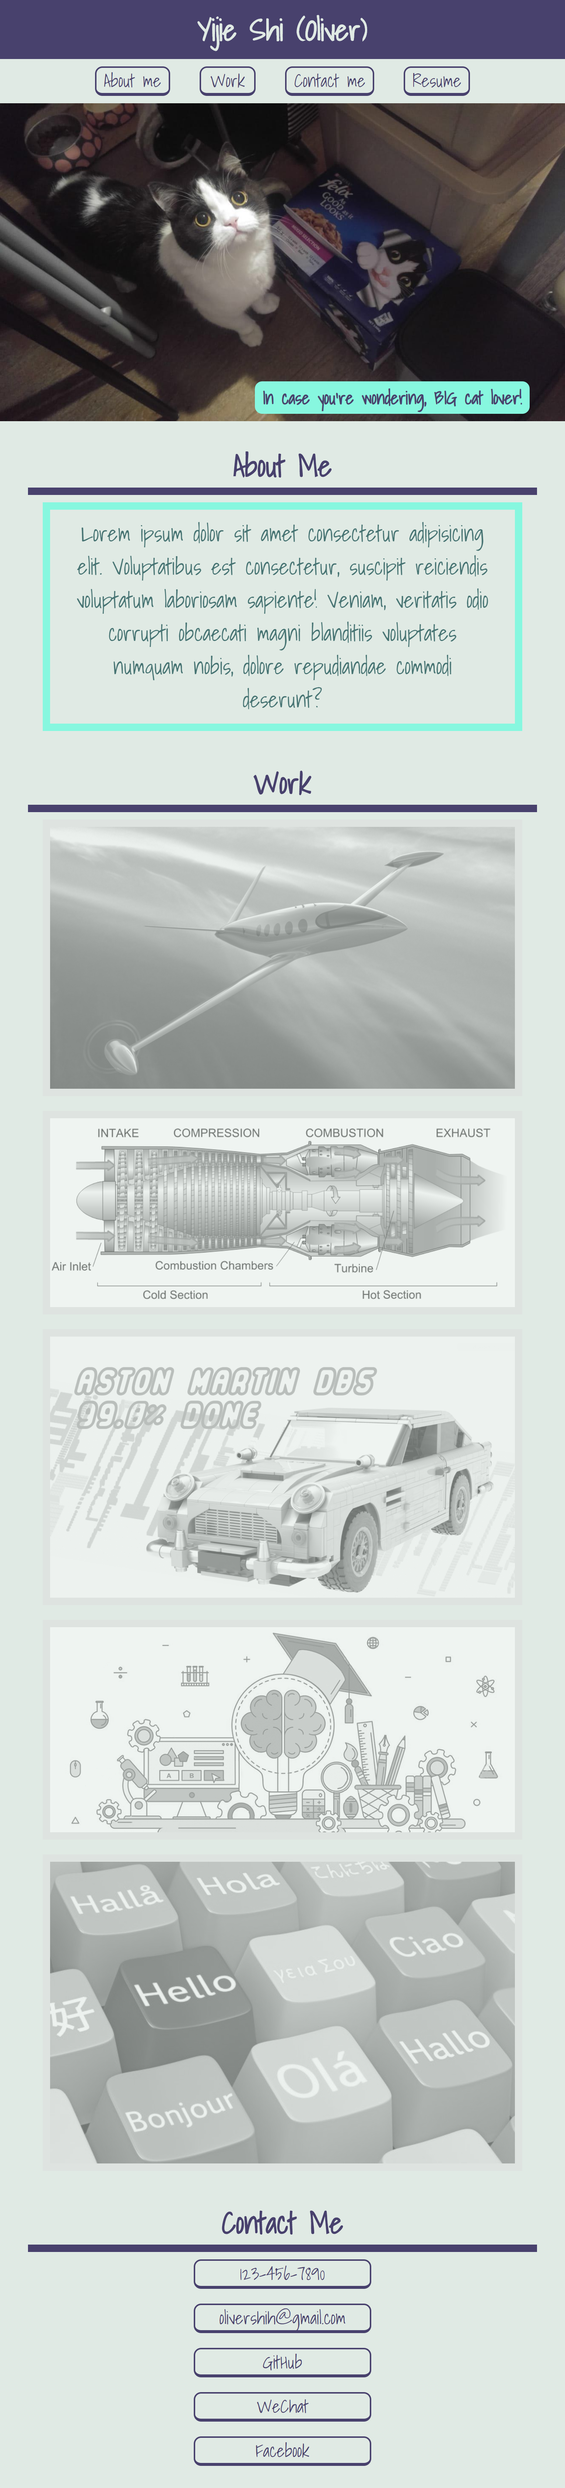
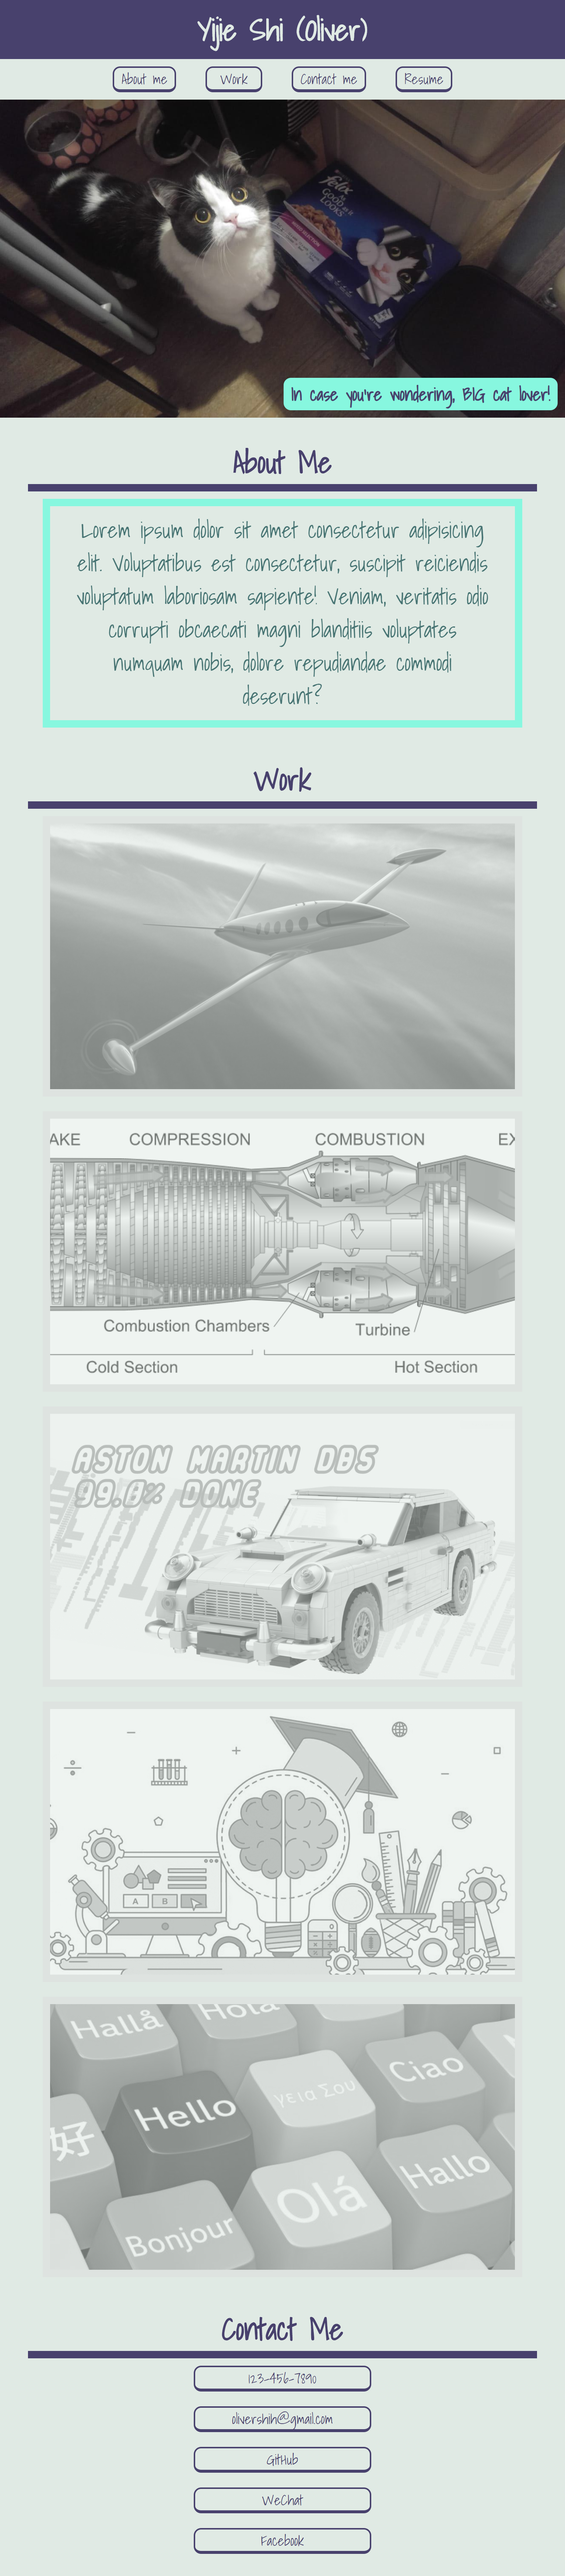
style changes, fixed flexbox issues, updated screenshots

Changed region(s): [[0.0, 0.0, 1.0, 0.9961], [0.9804, 0.0311, 1.0, 0.0623]]

diff --git a/assets/css/style.css b/assets/css/style.css
@@ -8,6 +8,7 @@
 
   body {
       background-color: var(--gin);
+      margin: auto;
       /*first font is a hand-writing font*/
       font-family:'Shadows Into Light', 'Lucida Sans', 'Lucida Sans Regular', 'Lucida Grande', 'Lucida Sans Unicode', Geneva, Verdana, sans-serif;   
     }
@@ -37,8 +38,6 @@ body figure img {
     /*Image caption*/
     font-size: 1.5rem;
     position: absolute;
-    margin-right: 5%;
-    display: flex;
     bottom: 10px;
     right: 10px;
     padding: 10px;
@@ -71,6 +70,7 @@ h5 {
       margin: auto;
       display: flex;
       justify-content: center;
+      align-items: center;
       flex-direction: column;
     }
     
@@ -109,7 +109,7 @@ h5 {
         color: var(--mulled-wine);
         /*transition for hover*/
         transition: color 500ms ease;
-        font-size: 1.5rem;
+        font-size: 2.5vw;
     }
   
     ul li:hover {
@@ -129,6 +129,7 @@ h5 {
 
 .top-pic {
     margin-bottom: 20px;
+    object-fit: cover;
 }
 
 .title {
@@ -160,6 +161,12 @@ p {
     transition: filter 500ms ease, opacity 500ms ease;
 }
 
+#contact {
+    display: flex;
+    flex-direction: column;
+    width: 100%;
+}
+
 #contact ul {
     flex-direction: column;
     align-items: center;
@@ -169,7 +176,7 @@ p {
 #contact ul li {
     /*so that each button has the same width*/
     min-width: 35%;
-    max-width: 55%;
+    max-width: 100%;
 }
 
 .container {
@@ -187,6 +194,7 @@ p {
     display: flex;
     /*to ensure that cards on the same row have the same height*/
     flex-grow: 1;
+    height: 400px;
 }
 
 .work img {
@@ -219,7 +227,7 @@ p {
 
 @media screen and (min-width: 992px) {
     /*realign for desktop*/
-    main article, main address, main section {
+    main article, main section, main #contact {
         flex-direction: row;
         justify-content: space-around;
     }
